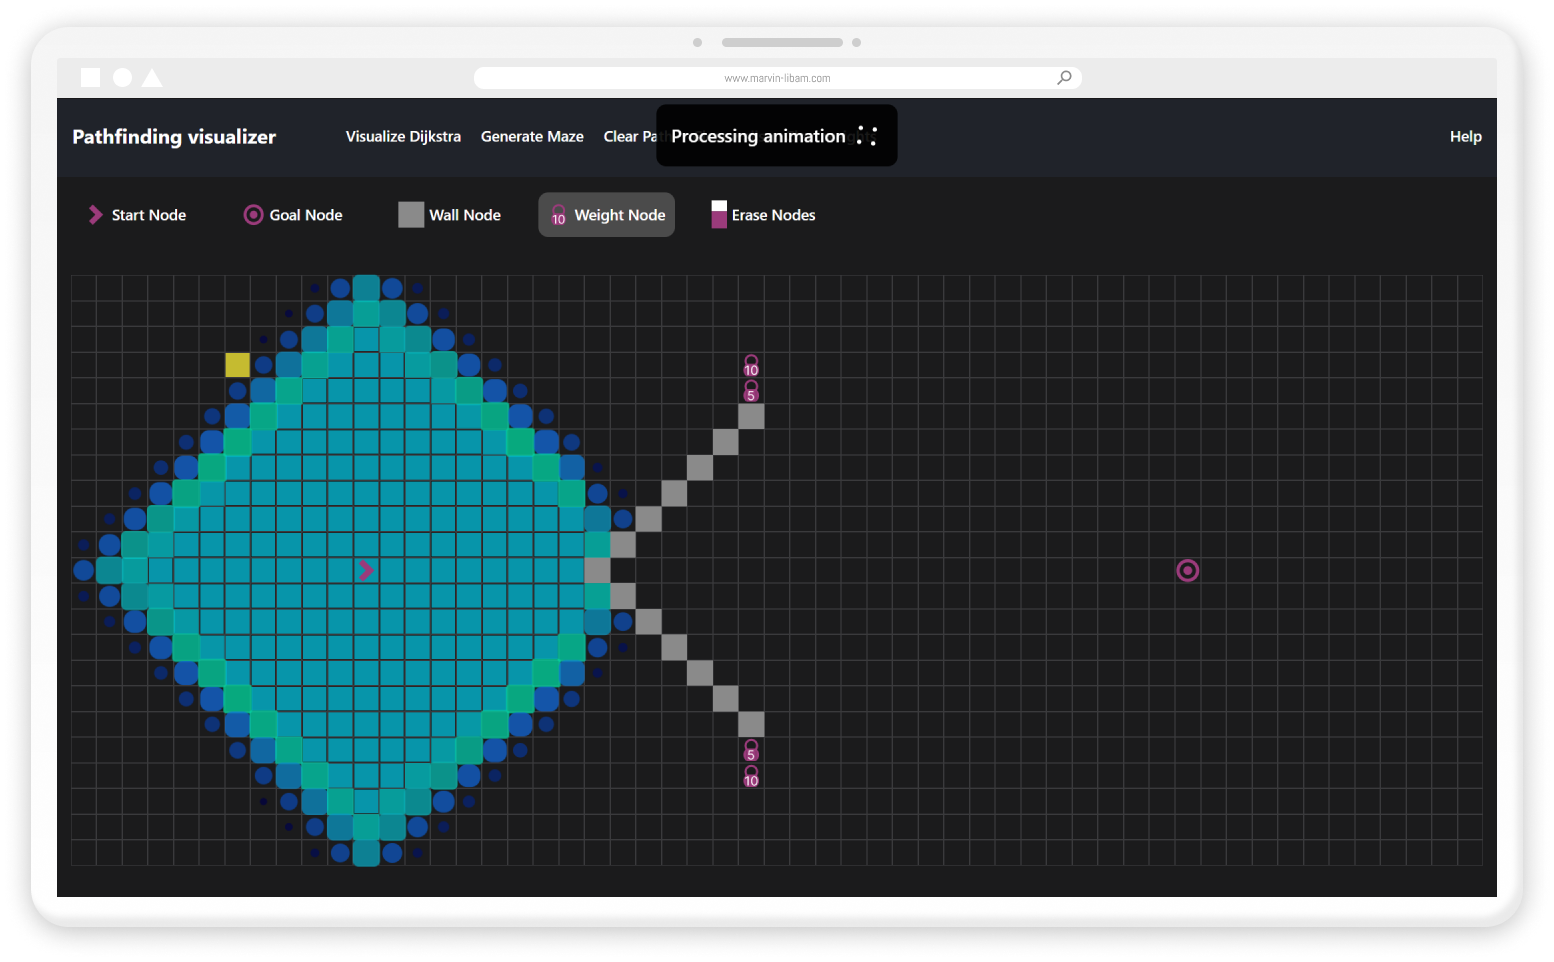
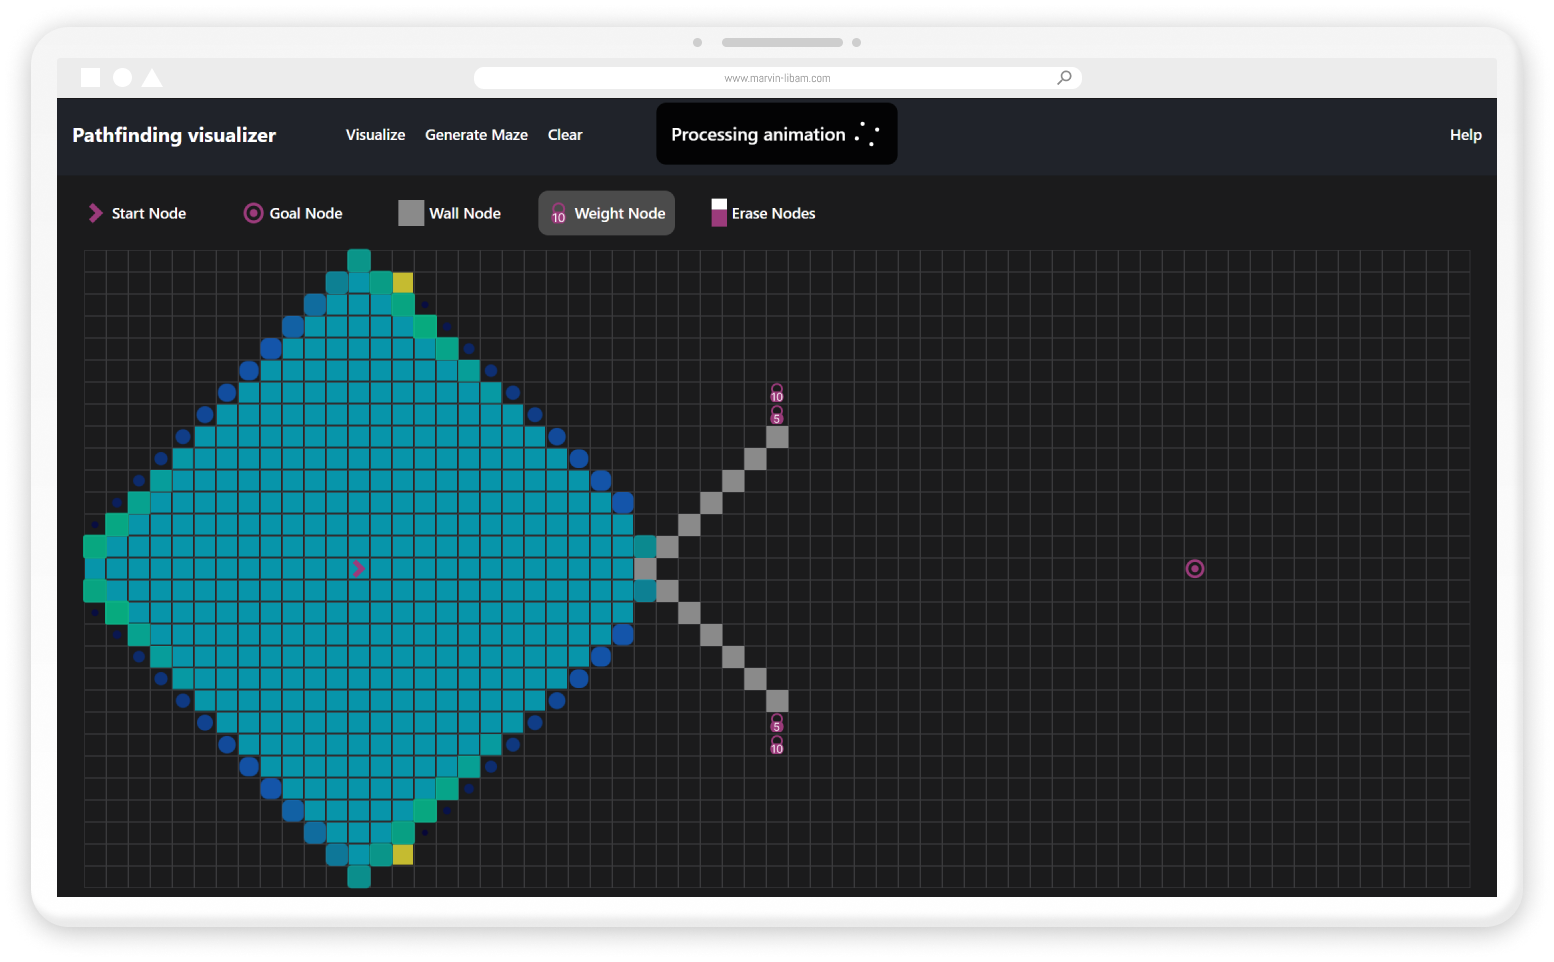
[Pathfinding] page update

diff --git a/pages/pathfinding-visualizer.html b/pages/pathfinding-visualizer.html
@@ -176,11 +176,12 @@
             <div class="content">
               <div class="inner">
                 <header class="major">
-                  <h3>Visualize the pathfinding algorithm</h3>
+                  <h3>Visualize a pathfinding algorithm</h3>
                 </header>
                 <p>
-                  Click on the 'Visualize Dijkstra' option to visualize the
-                  algorithm.
+                  Hover the 'Visualize' option to reveal sub options.<br />
+                  Click on one of the sub options to visualize the associated
+                  pathfinding algorithm.
                 </p>
               </div>
             </div>
@@ -198,7 +199,10 @@
                 <header class="major">
                   <h3>Generate a maze</h3>
                 </header>
-                <p>Click on the 'Generate Maze' option to generate a maze.</p>
+                <p>
+                  Hover the 'Generate Maze' option to reveal sub options.<br />
+                  Click on one of the sub options to generate a maze.
+                </p>
               </div>
             </div>
           </section>
